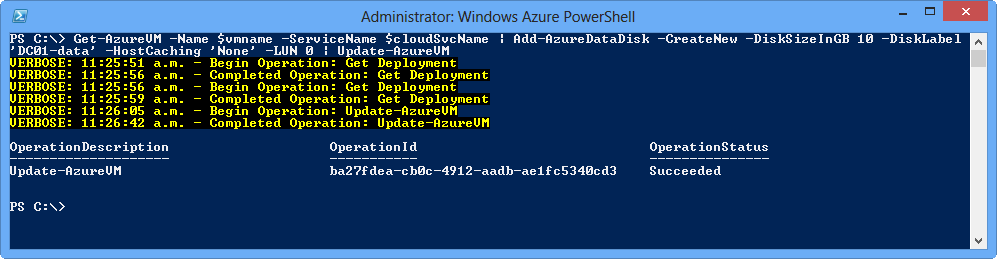
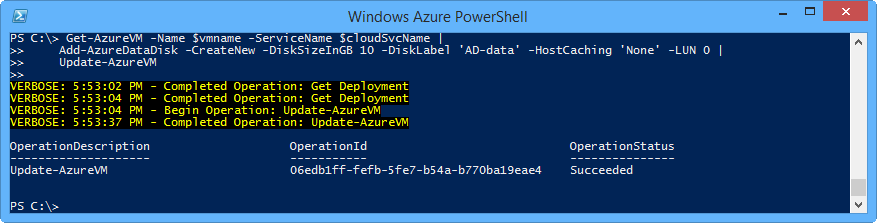
# Updated Prerequisites section to use the "Quickly create a virtual machine" section of the "Create or Delete Virtual Machines Using Windows Azure Cmdlets" how to guide instead of the "Provisioning a Windows Azure Virtual Machine (PowerShell)" HOL. # Minor fixes in the Prerequisites section regardi

diff --git a/HOLs/HOL-DeployingActiveDirectoryPS/HOL.md b/HOLs/HOL-DeployingActiveDirectoryPS/HOL.md
@@ -32,7 +32,15 @@ The following is required to complete this hands-on lab:
 	- If you are a Visual Studio Professional, Test Professional, Premium or Ultimate with MSDN or MSDN Platforms subscriber, activate your [MSDN benefit](http://aka.ms/watk-msdn) now to start development and test on Windows Azure.
 	- [BizSpark](http://aka.ms/watk-bizspark) members automatically receive the Windows Azure benefit through their Visual Studio Ultimate with MSDN subscriptions.
 	- Members of the [Microsoft Partner Network](http://aka.ms/watk-mpn) Cloud Essentials program receive monthly credits of Windows Azure at no charge.
-- Complete the _Provisioning a Windows Azure Virtual Machine (PowerShell)_ HOL
+- A Windows Server 2012 virtual machine
+	- Follow the [Quickly create a virtual machine](http://msdn.microsoft.com/en-us/library/windowsazure/jj835085.aspx#bk_Quick) section of the [Create or Delete Virtual Machines Using Windows Azure Cmdlets](http://msdn.microsoft.com/en-us/library/windowsazure/jj835085.aspx) how to guide to create a Windows Server virtual machine (make sure to pick a Windows Server 2012 image from the images list).
+
+		> **Note:**  You can use the following command to retrieve the name of the latest Windows Server 2012 image available.
+
+		> ```PowerShell
+		$imageName = @($images | Where {$_.ImageName -match "106__Windows-Server-2012"})[-1].ImageName
+		```
+
 
 >**Note:** In order to run through the complete hands-on lab, you must have network connectivity. 
 
@@ -46,14 +54,12 @@ In order to complete this lab, you will need your subscription’s secure creden
 
 > **Note:** If you have done these steps in a previous lab on the same computer you can move on to Exercise 1.
 
-
 In this task, you will log on to the Windows Azure Portal and download the Publish Settings file. This file contains the secure credentials and additional information about your Windows Azure Subscription that you will use in your development environment. Therefore, you will import this file using the Windows Azure Cmdlets in order to install the certificate and obtain the account information.
 
 1. Search for **Windows Azure PowerShell** in the Start screen and choose **Run as Administrator**.
 
 1.	Change the PowerShell execution policy to **RemoteSigned**. When asked to confirm press **Y** and then **Enter**.
 	
-	<!-- mark:1 -->
 	````PowerShell
 	Set-ExecutionPolicy RemoteSigned
 	````
@@ -67,14 +73,11 @@ In this task, you will log on to the Windows Azure Portal and download the Publi
 	>
 	> For more information about Execution Policies refer to this TechNet article: <http://technet.microsoft.com/en-us/library/ee176961.aspx>
 
-1.	Execute the following command that will open a web page on the Windows Azure Management Portal, from which you can download the subscription information.
+1.	Execute the following command to download the subscription information. This command will open a web page on the Windows Azure Management Portal.
 
-	<!-- mark:1 -->
 	````PowerShell
 	Get-AzurePublishSettingsFile
 	````
-
-	> **Note:** We recommend that you delete the publishing profile that you downloaded using _Get-AzurePublishSettingsFile_ after you import those settings. Because the management certificate includes security credentials, it should not be accessed by unauthorized users. If you need information about your subscriptions, you can get it from the Windows Azure Management Portal or the Microsoft Online Services Customer Portal.
 
 1.	Sign in using the **Microsoft Account** associated with your **Windows Azure** account.
 
@@ -86,37 +89,35 @@ In this task, you will log on to the Windows Azure Portal and download the Publi
 
 1.	The following script imports your Publish Settings file and generates an XML file with your account information. You will use these values during the lab to manage your Windows Azure Subscription. Replace the placeholder with the path to your Publish Setting file and execute the script.
 
-	<!-- mark:1 -->
 	````PowerShell
 	Import-AzurePublishSettingsFile '[YOUR-PUBLISH-SETTINGS-PATH]'   
 	````
 
-1. Execute the following commands and take note of the Subscription name and the storage account name you will use for the exercise.
+	> **Note:** It is recommend that you delete the publishing profile that you downloaded using _Get-AzurePublishSettingsFile_ after you import those settings. Because the management certificate includes security credentials, it should not be accessed by unauthorized users. If you need information about your subscriptions, you can get it from the Windows Azure Management Portal or the Microsoft Online Services Customer Portal.
 
-	<!-- mark:1-3 -->
+1. Execute the following command and take note of the subscription name you will use for this exercise.
+ 
 	````PowerShell
 	Get-AzureSubscription | select SubscriptionName
-	Get-AzureStorageAccount | select StorageAccountName 
 	````
+1. Execute the following command and take note of the storage account name you will use for the exercise.
 
-1. If the preceding command do NOT return a storage account, you should create one first.
-  
-	1. Run the following command to determine the data center to create your storage account in. Ensure you pick a data center that shows support for PersistentVMRole. 
-
-		````PowerShell
-		Get-AzureLocation  
-		````
-
-	1. Create your storage account: 
-
-
-		````PowerShell
-		New-AzureStorageAccount -StorageAccountName '[YOUR-STORAGE-ACCOUNT]' -Location '[DC-LOCATION]'
-		````
-
+	````PowerShell
+	Get-AzureStorageAccount | Where { $_.Location -eq '[DC-LOCATION]' } | select StorageAccountName
+	````
+ 
+	> **Note:** For the _[DC-LOCATION]_ placeholder above, please replace it with the deployment location of your virtual machine.
+ 
+1. If the preceding command do NOT return a storage account, you should create one first. To do this, execute the following command:
+               
+	````PowerShell
+	New-AzureStorageAccount -StorageAccountName '[YOUR-STORAGE-ACCOUNT]' -Location '[DC-LOCATION]'
+	````
+ 
+	> **Note:** For the _[DC-LOCATION]_ placeholder above, please replace it with the deployment location of your virtual machine.
+ 
 1. Execute the following command to set your current storage account for your subscription.
 
-	<!-- mark:1 -->
 	````PowerShell
 	Set-AzureSubscription -SubscriptionName '[YOUR-SUBSCRIPTION-NAME]' -CurrentStorageAccount '[YOUR-STORAGE-ACCOUNT]'
 	````
@@ -132,26 +133,26 @@ This hands-on lab includes the following exercises:
 <a name="Exercise1" /></a>
 ### Exercise 1: Adding a new data disk to the virtual machine ###
 
-You will now modify the virtual machine you already created from the "Provisioning a Windows Azure Virtual Machine (PowerShell)" lab. We will call this VM DC01. We will create and provision a data disk to this existing VM which will be used in exercise 2 to place the AD database files.
+You will now modify the virtual machine you already created. We will create and provision a data disk to this existing VM which will be used in exercise 2 to place the AD database files.
 
 Exercise 1 contains 2 tasks:
 
-1. Attaching a data disk to DC01
-1. Configuring a new data disk on DC01
+1. Attaching a data disk to your VM
+1. Configuring a new data disk on your VM
 
 <a name="Ex1Task1" /></a>
-#### Task 1 - Attaching a data disk to DC01####
+#### Task 1 - Attaching a data disk to your VM####
 
 1. Start **Windows Azure PowerShell**.
 
-1. Run the following command to add a data disk to the existing virtual machine. Make sure you replace the placeholder accordingly, using the service name you provided when creating the virtual machine.
+1. Run the following command to add a data disk to the existing virtual machine. Make sure you replace the placeholder accordingly, using the service name and the virtual machine name you provided when creating the virtual machine for this lab.
 
 	````PowerShell
 	$cloudSvcName = '[YOUR-SERVICE-NAME]'
-	$vmname = 'DC01'
+	$vmname = '[YOUR-VM-NAME]'
 
 	Get-AzureVM -Name $vmname -ServiceName $cloudSvcName |
-		Add-AzureDataDisk -CreateNew -DiskSizeInGB 10 -DiskLabel 'DC01-data' -HostCaching 'None' -LUN 0 |
+		Add-AzureDataDisk -CreateNew -DiskSizeInGB 10 -DiskLabel 'AD-data' -HostCaching 'None' -LUN 0 |
 		Update-AzureVM 
 	````
 
@@ -162,17 +163,30 @@ Exercise 1 contains 2 tasks:
 	_Adding data disk_
 
 <a name="Ex1Task2" /></a>
-#### Task 2 - Configuring a new data disk on DC01####
+#### Task 2 - Configuring a new data disk on your VM####
 
-1. Go to the **Virtual Machines** page within the Windows Azure Management portal and select the Virtual Machine you created by following the _Provisioning a Windows Azure Virtual Machine (PowerShell)_ HOL.
+1. Go to the **Virtual Machines** page within the Windows Azure Management portal and select the Virtual Machine you created for this lab.
 
 1. Click on the Virtual Machine name to open its page and click on **Dashboard**. Locate and take note of the DNS.
+
+	<!-- Update to use
+	````PowerShell
+	$dnsName = (Get-AzureVM $cloudSvcName).DNSName
+	````
+	-->
 
 	![Virtual Machine DNS](Images/virtual-machine-dns.png?raw=true)
 
 	_Virtual Machine DNS_
 
 1.  Now click on **Endpoints** and take note of the public port in the remote PowerShell endpoint that was created when you provisioned the virtual machine.
+
+	<!-- Update to use
+	````PowerShell
+	$winRmHTTpsEndpoint = Get-AzureVM $cloudSvcName | Get-AzureEndpoint -Name "WinRmHTTPs"
+	````
+	and then: $winRmHTTpsEndpoint.Port
+	-->
 
 	![Virtual Machine Endpoints](Images/virtual-machine-endpoints.png?raw=true)
 
@@ -183,6 +197,7 @@ Exercise 1 contains 2 tasks:
 	````PowerShell
 	Enter-PSSession -ComputerName '[YOUR-VM-DNS]' -Port [YOUR-ENDPOINT-PORT] -Authentication Negotiate -Credential '[YOUR-VM-USERNAME]' -UseSSL -SessionOption (New-PSSessionOption -SkipCACheck -SkipCNCheck)
 	````
+
 	>**Note:** When prompted, login with the administrator password.
 
 1. You should now be at a prompt with the host name to the left.
